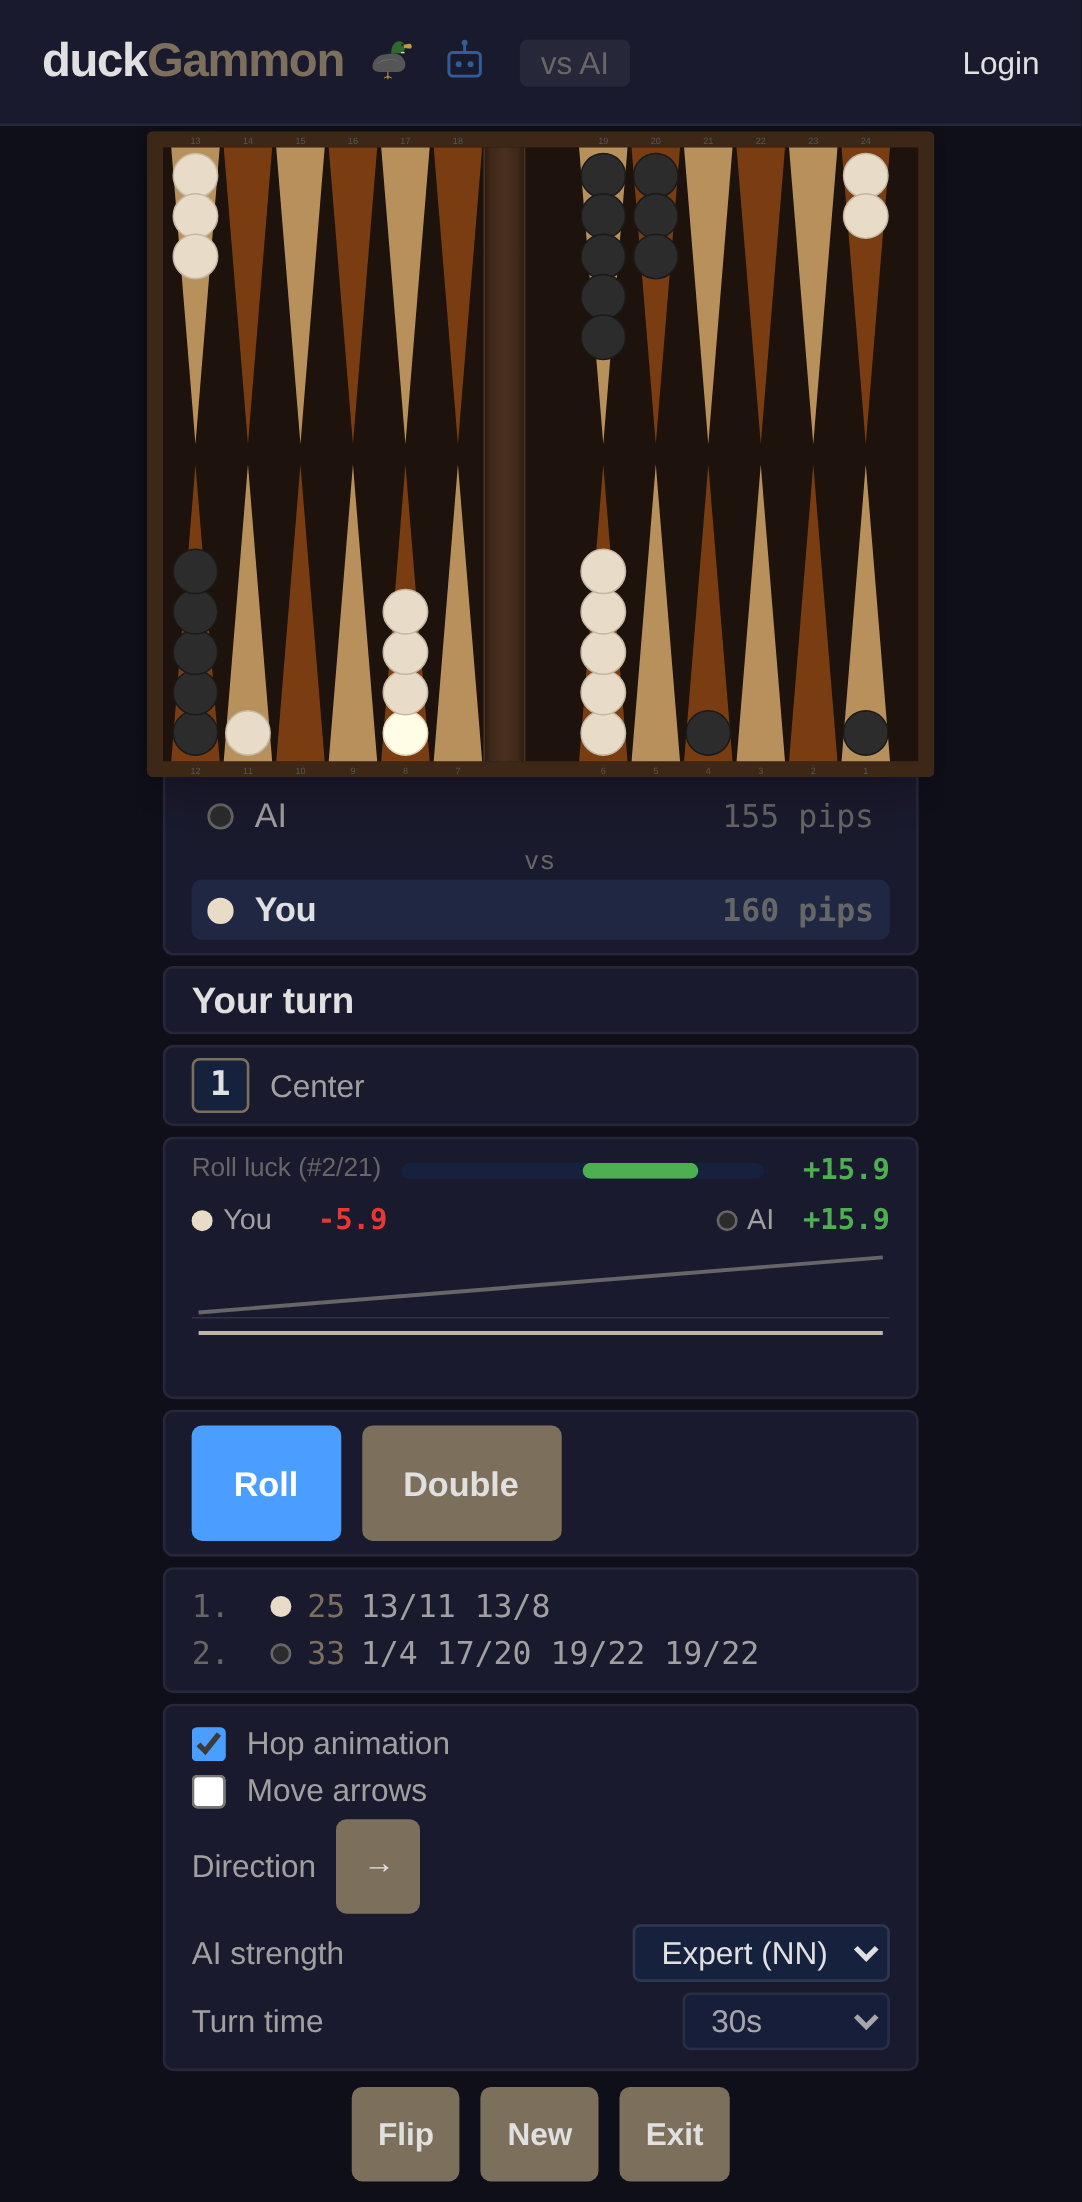
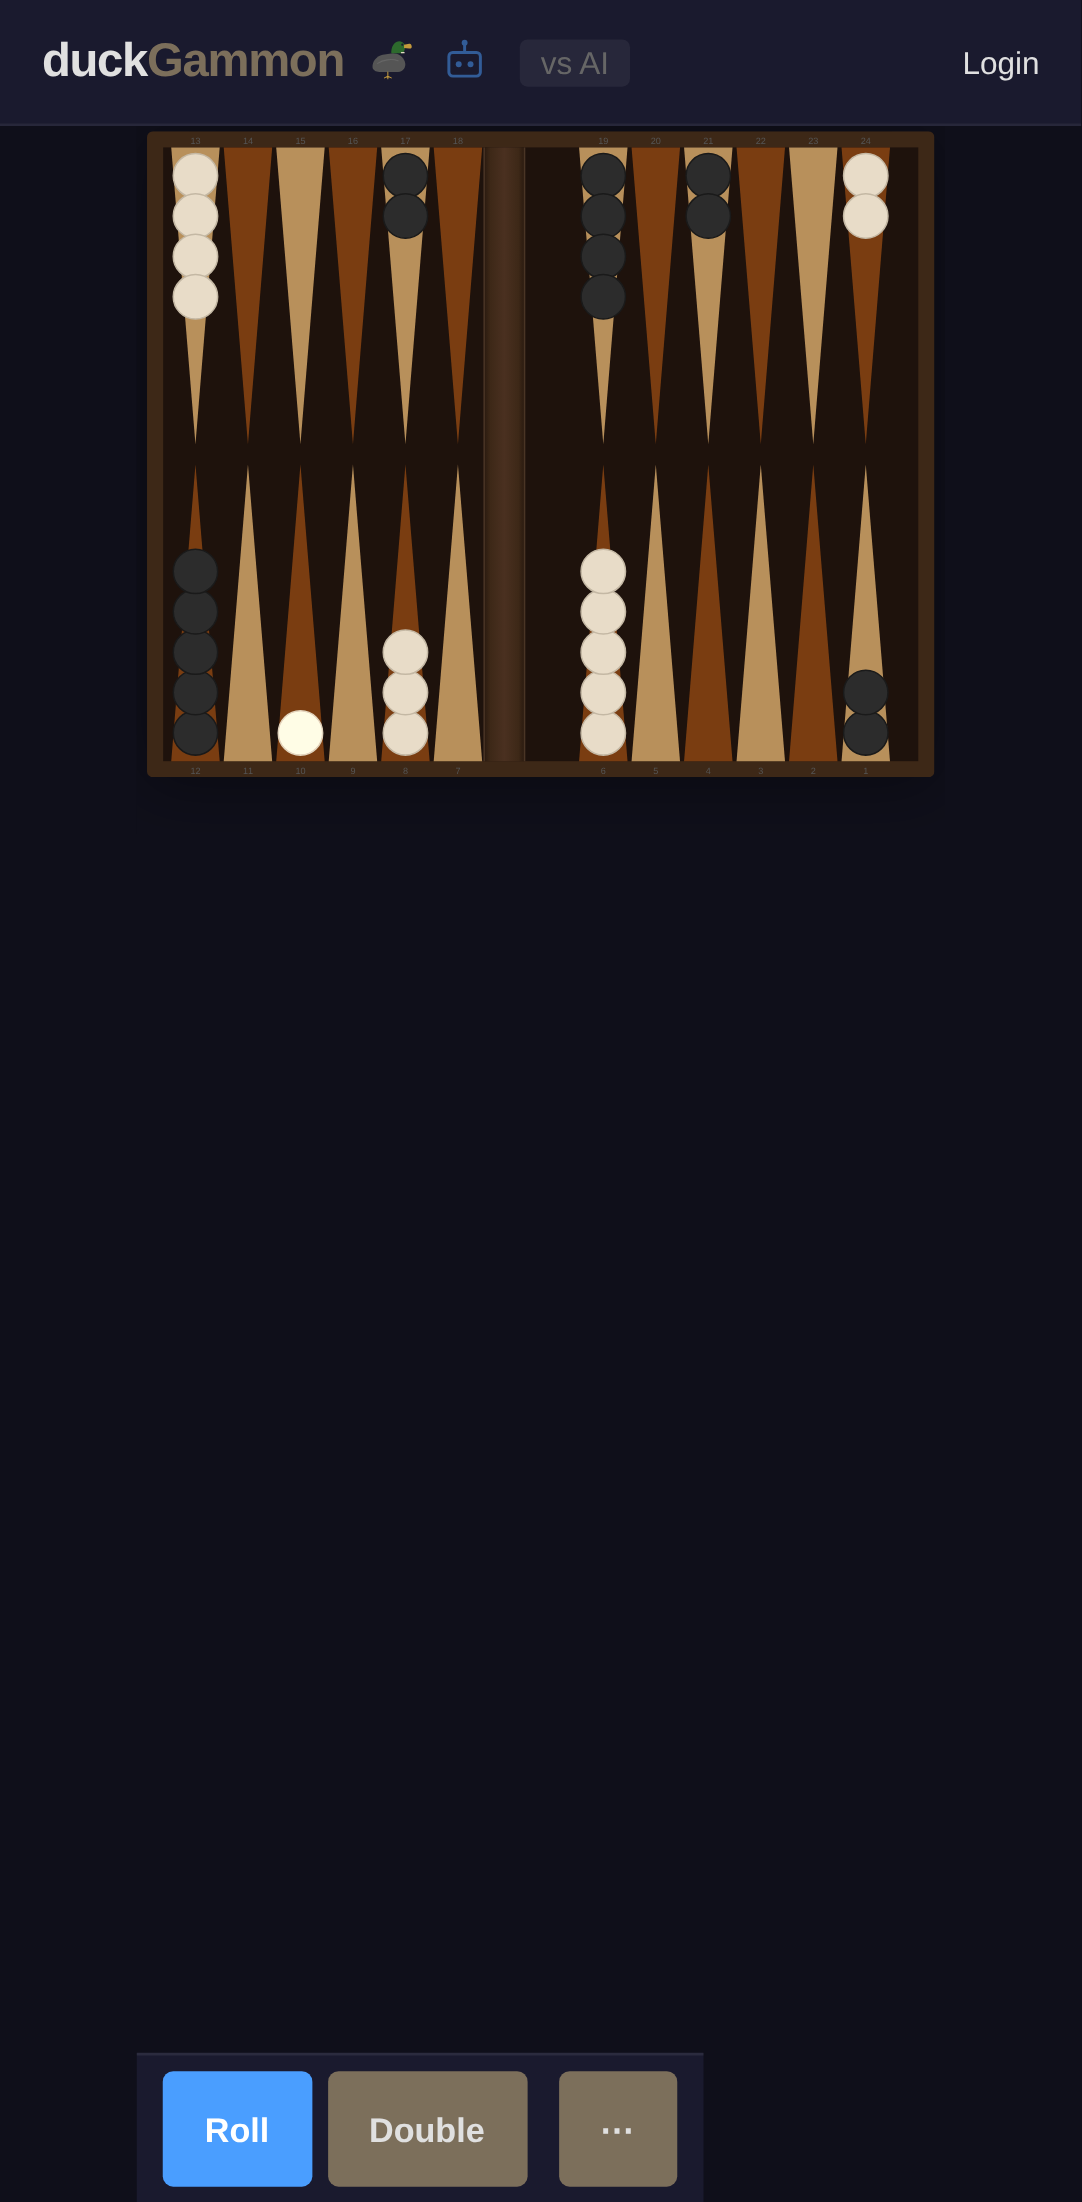
feat: mobile-first game layout with floating action bar and slide-out panels
Desktop layout is UNCHANGED. Mobile (<=768px) gets:

- Board takes nearly full screen (calc(100vh - header - 56px))
- Side panel hidden by default, slides in as overlay from right via ⋯ button
- Chat slides in via 💬 button (online mode)
- Floating action bar at bottom: Roll, Double, Undo, Confirm, Resign + menu/chat
- Semi-transparent backdrop behind overlays, tap to dismiss
- Escape key closes overlays (Bluetooth keyboard)

Architecture:
- Single overlay signal: 'none' | 'side' | 'chat' (prevents both open)
- GPU-accelerated transitions via transform: translateX() with will-change
- Side panel: 80vw max-width 320px, fixed position, z-index 50
- Chat: same overlay pattern, uses 100dvh for iOS keyboard handling
- Action bar: safe area bottom padding for notched devices
- Backdrop: fixed inset, z-index 49, rgba(0,0,0,0.4)

Updated Playwright tests to handle new layout:
- Layout tests use :visible selector for Roll button
- Mobile tests verify overlay open/close via menu button
- All 52 Playwright + 220 vitest tests pass

diff --git a/src/ui/styles/board.css b/src/ui/styles/board.css
@@ -36,7 +36,11 @@
   touch-action: manipulation;
 }
 
-/* ─── Mobile: vertical stack, zero scroll ─── */
+/* ─── Mobile action bar (hidden on desktop) ─── */
+.mobile-action-bar { display: none; }
+.mobile-backdrop { display: none; }
+
+/* ─── Mobile: board-first layout with floating action bar ─── */
 @media (max-width: 768px) {
   .board-container {
     flex-direction: column;
@@ -56,66 +60,127 @@
   .board-svg {
     width: 100%;
     height: auto;
-    max-height: 55vh;
+    max-height: calc(100vh - var(--header-height) - 56px - 8px);
     margin: 0 auto;
     filter: drop-shadow(0 2px 12px rgba(0, 0, 0, 0.4));
   }
 
+  /* ─── Side panel: hidden by default, slides in as overlay ─── */
   .side-panel {
-    width: 100% !important;
-    flex-shrink: 0 !important;
-    flex-direction: column !important;
-    gap: 4px !important;
-    padding: 4px 10px 6px !important;
+    position: fixed;
+    right: 0;
+    top: var(--header-height);
+    width: 80vw;
+    max-width: 320px;
+    height: calc(100vh - var(--header-height));
+    display: flex;
+    flex-direction: column;
+    gap: 6px;
+    padding: 12px 14px;
+    padding-bottom: calc(12px + env(safe-area-inset-bottom, 0));
+    background: var(--bg-secondary);
+    border-left: 1px solid rgba(255,255,255,0.08);
     overflow-y: auto;
-    min-height: 0;
     -webkit-overflow-scrolling: touch;
+    z-index: 50;
+    transform: translateX(100%);
+    transition: transform 300ms cubic-bezier(0.4, 0, 0.2, 1);
+    will-change: transform;
+    /* Reset desktop flex properties */
+    flex-shrink: unset;
+  }
+  .side-panel.mobile-open {
+    transform: translateX(0);
   }
 
   .side-panel .panel-section {
-    padding: 5px 10px;
+    padding: 8px 10px;
   }
-
-  /* Compact: hide verbose sections, show essentials inline */
   .side-panel .panel-title {
-    display: none;
+    font-size: 10px;
   }
-
   .side-panel .turn-indicator {
-    padding: 4px 10px;
+    padding: 6px 10px;
   }
-
-  /* Compact cube section on mobile — hide title, reduce padding */
-  .side-panel .panel-section:nth-child(3) .panel-title { display: none; }
-  .side-panel .panel-section:nth-child(3) { padding: 4px 10px; }
-
-  /* Hide move history on mobile to save space */
-  .side-panel .panel-section:last-of-type {
-    display: none;
-  }
-
   .move-list {
-    max-height: 60px !important;
+    max-height: 120px;
   }
-
   .controls.bottom-controls {
     justify-content: center;
-    padding: 2px 0;
+    padding: 4px 0;
   }
 
+  /* ─── Chat panel: overlay on mobile ─── */
+  .chat-panel {
+    position: fixed;
+    right: 0;
+    top: var(--header-height);
+    width: 80vw;
+    max-width: 320px;
+    height: calc(100dvh - var(--header-height));
+    z-index: 50;
+    transform: translateX(100%);
+    transition: transform 300ms cubic-bezier(0.4, 0, 0.2, 1);
+    will-change: transform;
+    display: flex;
+    flex-direction: column;
+    border-left: 1px solid rgba(255,255,255,0.08);
+  }
+  .chat-panel.mobile-open {
+    transform: translateX(0);
+  }
+
+  /* ─── Mobile action bar: bottom floating bar ─── */
+  .mobile-action-bar {
+    display: flex;
+    align-items: center;
+    gap: 6px;
+    padding: 6px 10px;
+    padding-bottom: calc(6px + env(safe-area-inset-bottom, 0));
+    background: var(--bg-secondary);
+    border-top: 1px solid rgba(255,255,255,0.08);
+    flex-shrink: 0;
+    touch-action: manipulation;
+  }
+  .mobile-action-btn {
+    min-height: 40px;
+    padding: 8px 14px;
+    font-size: 13px;
+  }
+  .mobile-menu-btn, .mobile-chat-btn {
+    min-height: 40px;
+    padding: 8px 12px;
+    font-size: 16px;
+    background: transparent;
+    border: 1px solid rgba(255,255,255,0.1);
+    color: var(--text-secondary);
+    border-radius: var(--border-radius);
+    cursor: pointer;
+  }
+  .mobile-menu-btn:active, .mobile-chat-btn:active {
+    background: rgba(255,255,255,0.05);
+  }
+
+  /* ─── Backdrop ─── */
+  .mobile-backdrop {
+    display: block;
+    position: fixed;
+    inset: 0;
+    background: rgba(0,0,0,0.4);
+    z-index: 49;
+  }
+
+  /* ─── General mobile overrides ─── */
   .btn { min-height: 44px; padding: 10px 16px; }
   .btn-small { min-height: 36px; padding: 6px 12px; }
   .shortcut-hint { display: none; }
-  .board-container { padding-bottom: env(safe-area-inset-bottom, 0); }
 
   .landing {
     padding: 24px 16px;
   }
-
   .landing h1 {
     font-size: 32px !important;
   }
-
   .landing .tagline {
     font-size: 15px !important;
   }
@@ -1283,10 +1348,6 @@
 .game-history-table td {
   padding: 6px 8px;
   border-bottom: 1px solid rgba(255,255,255,0.03);
-}
-
-@media (max-width: 768px) {
-  .chat-panel { display: none; }
 }
 
 .opponent-arrows {

diff --git a/src/ui/game/GameView.tsx b/src/ui/game/GameView.tsx
@@ -114,6 +114,7 @@ const GameView: Component<{ onExit: () => void; mode: GameMode; devPreset?: DevP
   const [chatMessages, setChatMessages] = createSignal<ChatMessage[]>([]);
   const chatTime = () => new Date().toLocaleTimeString([], { hour: '2-digit', minute: '2-digit' });
   const [opponentName, setOpponentName] = createSignal<string>('Opponent');
+  const [mobileOverlay, setMobileOverlay] = createSignal<'none' | 'side' | 'chat'>('none');
   let initialBoard = [...initState.board];
   let initialWhiteOff = initState.whiteOff;
   let initialBlackOff = initState.blackOff;
@@ -971,7 +972,9 @@ const GameView: Component<{ onExit: () => void; mode: GameMode; devPreset?: DevP
         else if (canConfirmTurn()) handleConfirm();
         break;
       case 'd': handleDouble(); break;
-      case 'Escape': setSelectedPoint(null); break;
+      case 'Escape':
+        if (mobileOverlay() !== 'none') { setMobileOverlay('none'); break; }
+        setSelectedPoint(null); break;
     }
   }
 
@@ -1068,11 +1071,12 @@ const GameView: Component<{ onExit: () => void; mode: GameMode; devPreset?: DevP
 
   return (
     <div class="board-container">
-      {/* Chat panel — left side, online mode only */}
+      {/* Chat panel — left side on desktop, overlay on mobile */}
       <Show when={isOnline() && !waitingForOpponent()}>
         <ChatPanel
           messages={chatMessages()}
           onSend={(text) => socket.send({ type: 'chat', text })}
+          class={mobileOverlay() === 'chat' ? 'mobile-open' : ''}
         />
       </Show>
 
@@ -1148,7 +1152,40 @@ const GameView: Component<{ onExit: () => void; mode: GameMode; devPreset?: DevP
         />
       </div>
 
-      <div class="side-panel">
+      {/* Mobile action bar — hidden on desktop */}
+      <div class="mobile-action-bar">
+        <Show when={currentState().phase === 'waiting' && !isAiTurn() && !waitingForOpponent() && isMyTurn()}>
+          <button class="btn btn-primary mobile-action-btn" onClick={handleRoll} disabled={isRolling()}>Roll</button>
+          <Show when={canDouble(currentState().cube, currentState().turn)}>
+            <button class="btn mobile-action-btn" onClick={handleDouble}>Double</button>
+          </Show>
+        </Show>
+        <Show when={currentState().phase === 'moving' && !isAiTurn()}>
+          <button class="btn btn-small mobile-action-btn" onClick={handleUndo} disabled={!canUndo()}>Undo</button>
+          <Show when={canConfirmTurn()}>
+            <button class="btn btn-primary mobile-action-btn" onClick={handleConfirm}>Confirm</button>
+          </Show>
+        </Show>
+        <Show when={currentState().phase === 'cubeOffered' && !isAiTurn()}>
+          <button class="btn btn-primary mobile-action-btn" onClick={handleAcceptDouble}>Accept</button>
+          <button class="btn btn-danger mobile-action-btn" onClick={handleDropDouble}>Drop</button>
+        </Show>
+        <Show when={isOnline() && currentState().phase !== 'gameOver'}>
+          <button class="btn mobile-action-btn" style={{ color: '#e53935' }} onClick={handleResign}>Resign</button>
+        </Show>
+        <div style={{ flex: '1' }} />
+        <button class="btn mobile-action-btn mobile-menu-btn" onClick={() => setMobileOverlay(o => o === 'side' ? 'none' : 'side')}>&#8943;</button>
+        <Show when={isOnline()}>
+          <button class="btn mobile-action-btn mobile-chat-btn" onClick={() => setMobileOverlay(o => o === 'chat' ? 'none' : 'chat')}>💬</button>
+        </Show>
+      </div>
+
+      {/* Backdrop for mobile overlays */}
+      <Show when={mobileOverlay() !== 'none'}>
+        <div class="mobile-backdrop" onClick={() => setMobileOverlay('none')} />
+      </Show>
+
+      <div class={`side-panel ${mobileOverlay() === 'side' ? 'mobile-open' : ''}`}>
         {/* Opponent box */}
         <div class="panel-section opponent-box">
           <div class={`player-row ${currentState().turn === 'b' ? 'active-turn' : ''}`}>

diff --git a/tests/visual/mobile.spec.ts b/tests/visual/mobile.spec.ts
@@ -20,7 +20,13 @@ async function startAIGame(page: Page) {
 }
 
 async function rollDice(page: Page) {
-  await page.click('button:has-text("Roll")');
+  // On mobile, Roll is in the action bar
+  const rollBtn = page.locator('.mobile-action-bar button:has-text("Roll")');
+  if (await rollBtn.isVisible()) {
+    await rollBtn.click();
+  } else {
+    await page.click('button:has-text("Roll")');
+  }
   await page.waitForTimeout(800); // dice animation
 }
 
@@ -55,17 +61,25 @@ test.describe('Mobile layout', () => {
     expect(boardBox!.height).toBeGreaterThan(100);
   });
 
-  test('side panel is visible below board on mobile', async ({ page }) => {
+  test('side panel is hidden by default, shown via menu button', async ({ page }) => {
     await startAIGame(page);
 
+    // Side panel should be off-screen by default
     const panel = page.locator('.side-panel');
-    await expect(panel).toBeVisible();
-
     const panelBox = await panel.boundingBox();
-    const boardBox = await page.locator('.board-svg').boundingBox();
-    expect(panelBox).not.toBeNull();
-    // Panel should be below or adjacent to the board (allow 20px overlap for tight layouts)
-    expect(panelBox!.y).toBeGreaterThanOrEqual(boardBox!.y + boardBox!.height - 20);
+    const viewport = page.viewportSize()!;
+    // Panel should be translated off the right edge
+    expect(panelBox!.x).toBeGreaterThanOrEqual(viewport.width - 5);
+
+    // Tap the menu button to open it
+    const menuBtn = page.locator('.mobile-menu-btn');
+    await expect(menuBtn).toBeVisible();
+    await menuBtn.tap();
+    await page.waitForTimeout(400); // slide animation
+
+    // Now panel should be visible on screen
+    const openBox = await panel.boundingBox();
+    expect(openBox!.x).toBeLessThan(viewport.width);
   });
 
   test('no horizontal overflow on mobile', async ({ page }) => {
@@ -119,15 +133,15 @@ test.describe('Mobile touch targets', () => {
     }
   });
 
-  test('roll button is easily tappable', async ({ page }) => {
+  test('roll button is easily tappable in action bar', async ({ page }) => {
     await startAIGame(page);
 
-    const rollBtn = page.locator('button:has-text("Roll")');
+    const rollBtn = page.locator('.mobile-action-bar button:has-text("Roll")');
     await expect(rollBtn).toBeVisible();
 
     const box = await rollBtn.boundingBox();
-    expect(box!.height).toBeGreaterThanOrEqual(40);
-    expect(box!.width).toBeGreaterThanOrEqual(50);
+    expect(box!.height).toBeGreaterThanOrEqual(36);
+    expect(box!.width).toBeGreaterThanOrEqual(40);
   });
 });
 

diff --git a/tests/visual/layout.spec.ts b/tests/visual/layout.spec.ts
@@ -71,13 +71,9 @@ async function assertBoardVisible(page: Page) {
 }
 
 async function assertControlsVisible(page: Page) {
-  // Roll button should be visible on initial game state
-  const rollBtn = page.locator('button', { hasText: 'Roll' });
-  await expect(rollBtn).toBeVisible();
-
-  // Bottom controls (Flip, New, Exit) should be visible
-  const flipBtn = page.locator('button', { hasText: 'Flip' });
-  await expect(flipBtn).toBeVisible();
+  // Roll button should be visible (in side panel on desktop, action bar on mobile)
+  const rollBtns = page.locator('button:visible', { hasText: 'Roll' });
+  await expect(rollBtns.first()).toBeVisible();
 }
 
 // ─── Landing Page ───
@@ -154,7 +150,7 @@ test.describe('Game view - after roll', () => {
     await page.waitForTimeout(300);
 
     // Click Roll (wait for dice animation to complete: 550ms)
-    await page.click('button:has-text("Roll")');
+    await page.locator('button:visible:has-text("Roll")').first().click();
     await page.waitForTimeout(800);
 
     await page.screenshot({
@@ -184,7 +180,7 @@ test.describe('Game view - AI turn', () => {
     await page.waitForTimeout(300);
 
     // Roll, then make moves to complete the turn
-    await page.click('button:has-text("Roll")');
+    await page.locator('button:visible:has-text("Roll")').first().click();
     await page.waitForTimeout(800);
 
     // Make moves by clicking moveable checkers then destinations (force to bypass overlays)
@@ -224,7 +220,7 @@ test.describe('Game view - AI turn', () => {
     await page.waitForTimeout(300);
 
     // Roll dice
-    await page.click('button:has-text("Roll")');
+    await page.locator('button:visible:has-text("Roll")').first().click();
     await page.waitForTimeout(800);
 
     // Make moves to complete the turn (force click to bypass SVG overlays)

diff --git a/src/ui/board/ChatPanel.tsx b/src/ui/board/ChatPanel.tsx
@@ -9,6 +9,7 @@ export interface ChatMessage {
 interface ChatPanelProps {
   messages: ChatMessage[];
   onSend: (text: string) => void;
+  class?: string;
 }
 
 const ChatPanel: Component<ChatPanelProps> = (props) => {
@@ -30,7 +31,7 @@ const ChatPanel: Component<ChatPanelProps> = (props) => {
   }
 
   return (
-    <div class="chat-panel">
+    <div class={`chat-panel ${props.class || ''}`}>
       <div class="chat-header">Chat</div>
       <div class="chat-messages" ref={(el) => {
         observer.observe(el, { childList: true });
